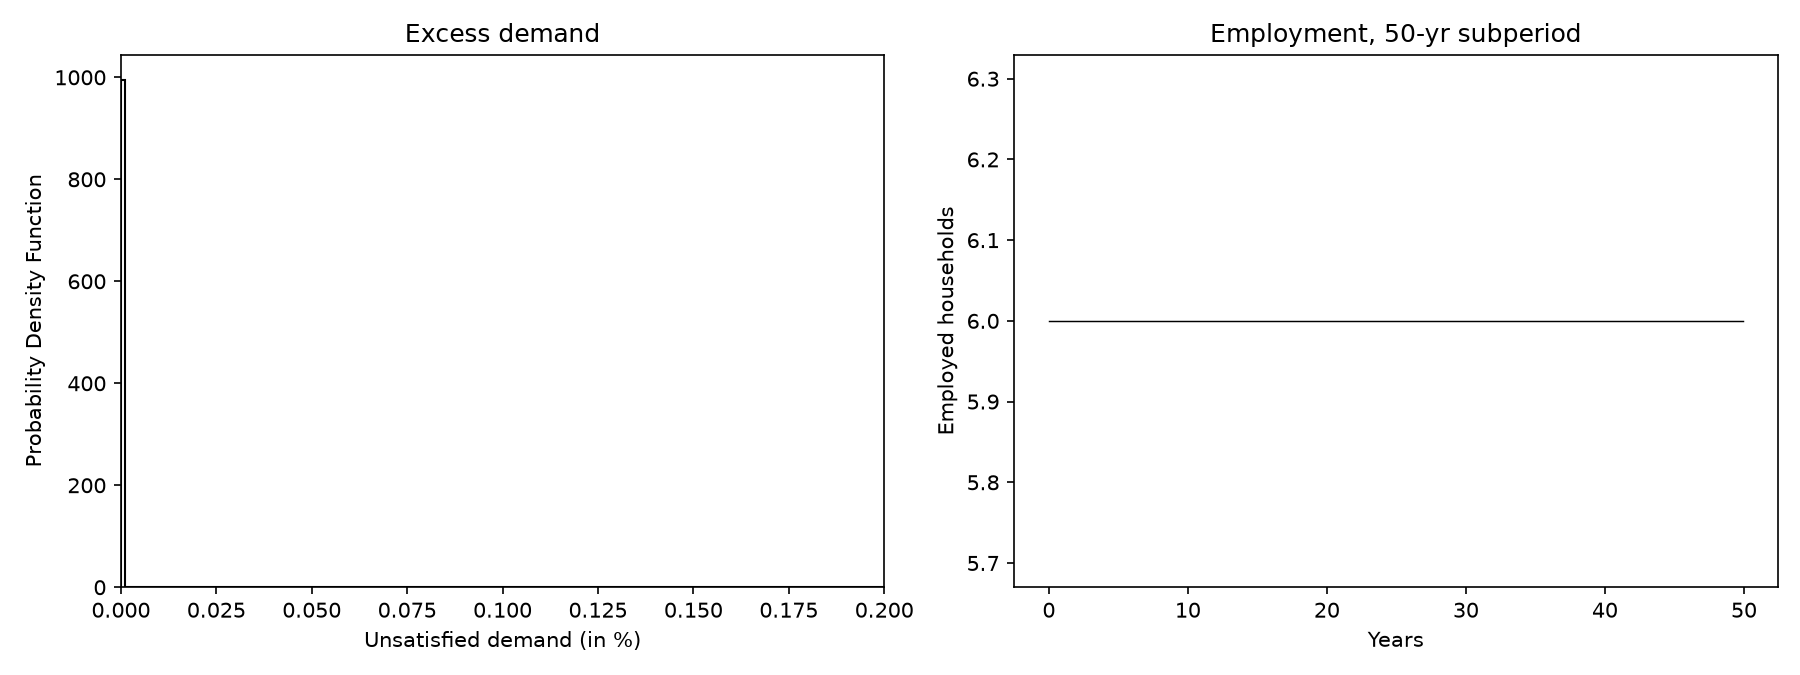
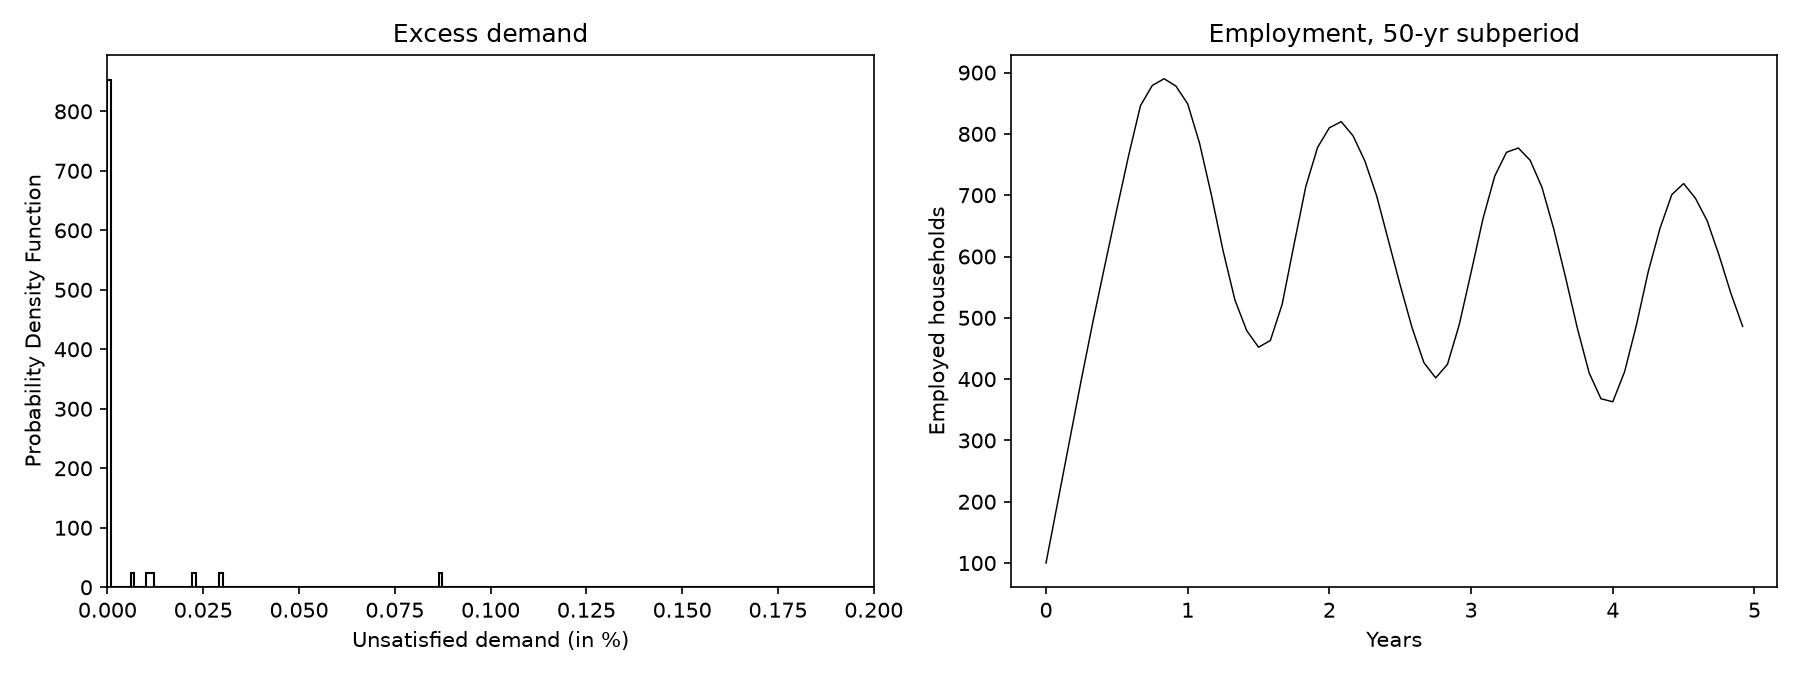
updated prompt to try and even out raise and lower dynamics

diff --git a/src/llm/prompts.py b/src/llm/prompts.py
@@ -18,13 +18,33 @@ def build_price_prompt(i_f, p_f, mc_f, demand, price_history=None, demand_histor
         "You are the pricing manager for a firm in a simple closed economy. "
         "Each month you decide whether to raise, lower, or hold your goods "
         "price, based on your inventory levels relative to recent demand.\n\n"
+        "How to read inventory: inventory is UNSOLD stock sitting in your "
+        "warehouse. High or rising inventory relative to demand means goods "
+        "are NOT selling fast enough -- that is a signal to LOWER your "
+        "price, not raise it. Low or falling inventory relative to demand "
+        "means customers are buying faster than you can restock -- that is "
+        "a signal to RAISE your price. Do not confuse rising inventory with "
+        "rising demand; they point in opposite directions for pricing.\n\n"
+        "Changing your price is not free in practice: relabeling and "
+        "catalogue updates take effort, and customers who see your price "
+        "move around too much lose trust and shop elsewhere. Only raise or "
+        "lower when the evidence clearly justifies it. If the trend in "
+        "demand and inventory is mixed or inconclusive, hold your price.\n\n"
+        "Size the change to match the evidence: a small, borderline "
+        "mismatch between demand and inventory calls for a small price "
+        "adjustment; a large, clear-cut mismatch justifies a larger one. "
+        "Don't default to the same fixed step every time -- think about "
+        "how big a change the current situation actually warrants, as a "
+        "proportion of your current price.\n\n"
         f"Current state:\n"
         f"- Inventory: {i_f}\n"
         f"- Current price: {p_f}\n"
         f"- Marginal cost this month: {mc_f}\n"
         f"- Realised demand last month: {demand}\n"
         f"{history_section}\n"
-        "Decide your price for next month. Respond ONLY with JSON in this "
+        "Decide your action for next month. Respond ONLY with JSON in this "
         "exact schema:\n"
-        '{"new_price": <float>, "reasoning": "<one_sentence>"}'
+        '{"action": "hold" | "raise" | "lower", "new_price": <float>, '
+        '"reasoning": "<one_sentence>"}\n'
+        'If action is "hold", set new_price equal to the current price.'
     )

diff --git a/src/llm/parsing.py b/src/llm/parsing.py
@@ -8,12 +8,16 @@ def parse_price_response(raw_text, current_price, max_change_frac=0.5):
     missing keys, wrong types, non-positive prices, or implausible jumps.
     Returns (new_price, reasoning, ok) so callers can log what happened
     """
-    try: 
+    try:
         parsed = json.loads(raw_text)
+        action = str(parsed.get("action", "")).lower()
         new_price = float(parsed["new_price"])
         reasoning = str(parsed.get("reasoning", ""))
     except (json.JSONDecodeError, KeyError, ValueError, TypeError):
         return current_price, f"PARSE_FAILURE: {raw_text!r}", False
+
+    if action == "hold":
+        return current_price, reasoning, True
 
     if new_price <= 0:
         return current_price, f"REJECTED (non-positive price): {new_price}", False

diff --git a/src/llm/client.py b/src/llm/client.py
@@ -15,12 +15,13 @@ def call_ollama_price(i_f, p_f, mc_f, demand, price_history=None, demand_history
         "format": {
             "type": "object",
             "properties": {
+                "action": {"type": "string", "enum": ["hold", "raise", "lower"]},
                 "new_price": {"type": "number"},
                 "reasoning": {"type": "string"}
             },
-            "required": ["new_price", "reasoning"]
+            "required": ["action", "new_price", "reasoning"]
         },
-        "options": {"temperature": 0.7},
+        "options": {"temperature": 0.3},
     }
     start = time.time()
     response = requests.post(OLLAMA_CHAT_URL, json=payload, timeout=600)

diff --git a/scripts/make_tier1_figures_singlerun.py b/scripts/make_tier1_figures_singlerun.py
@@ -7,7 +7,7 @@ observations across months WITHIN that one run, and the time-series
 panels showing a 50-year subperiod of that same run.
 
 Usage:
-    python make_tier1_figures_singlerun.py diagnostics/run_seed<SEED>.csv \
+    python scripts/make_tier1_figures_singlerun.py diagnostics/run_seed<SEED>.csv \
         diagnostics/firm_snapshots_seed<SEED>.csv
 """
 import sys
@@ -23,7 +23,7 @@ run_path = sys.argv[1]
 firm_path = sys.argv[2]
 out_dir = os.path.dirname(run_path) or '.'
 
-BURN_IN_MONTHS = 1000
+BURN_IN_MONTHS = 0#1000
 REP_WINDOW = 600  # 50-year illustrative window, matching the paper
 
 df = pd.read_csv(run_path)
